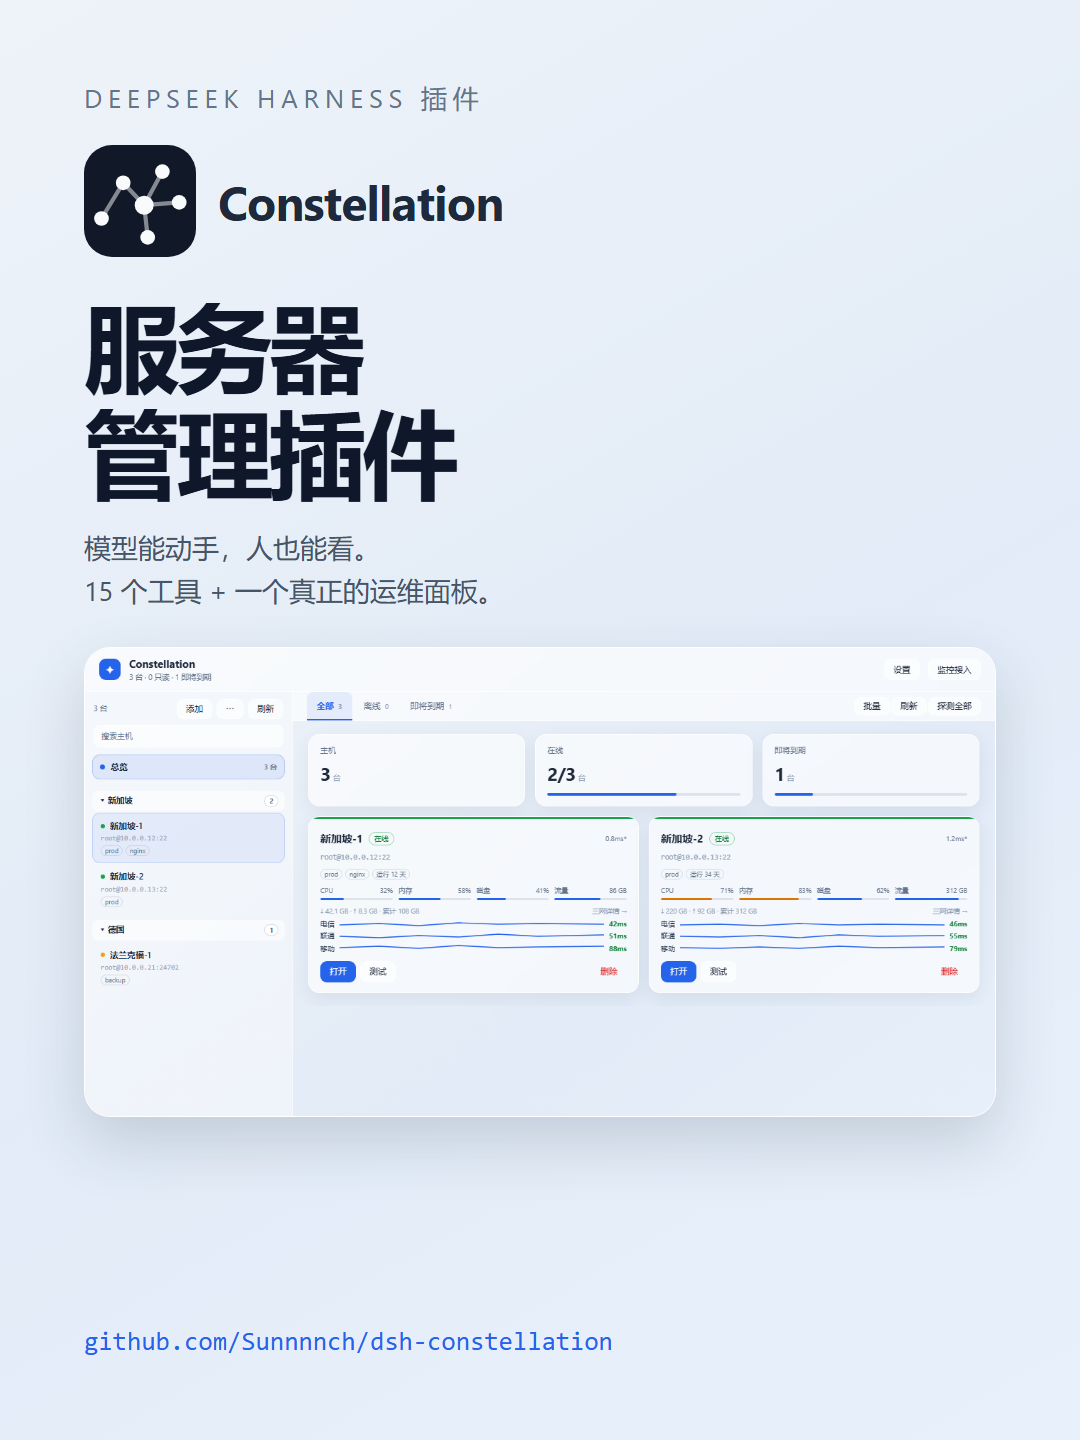
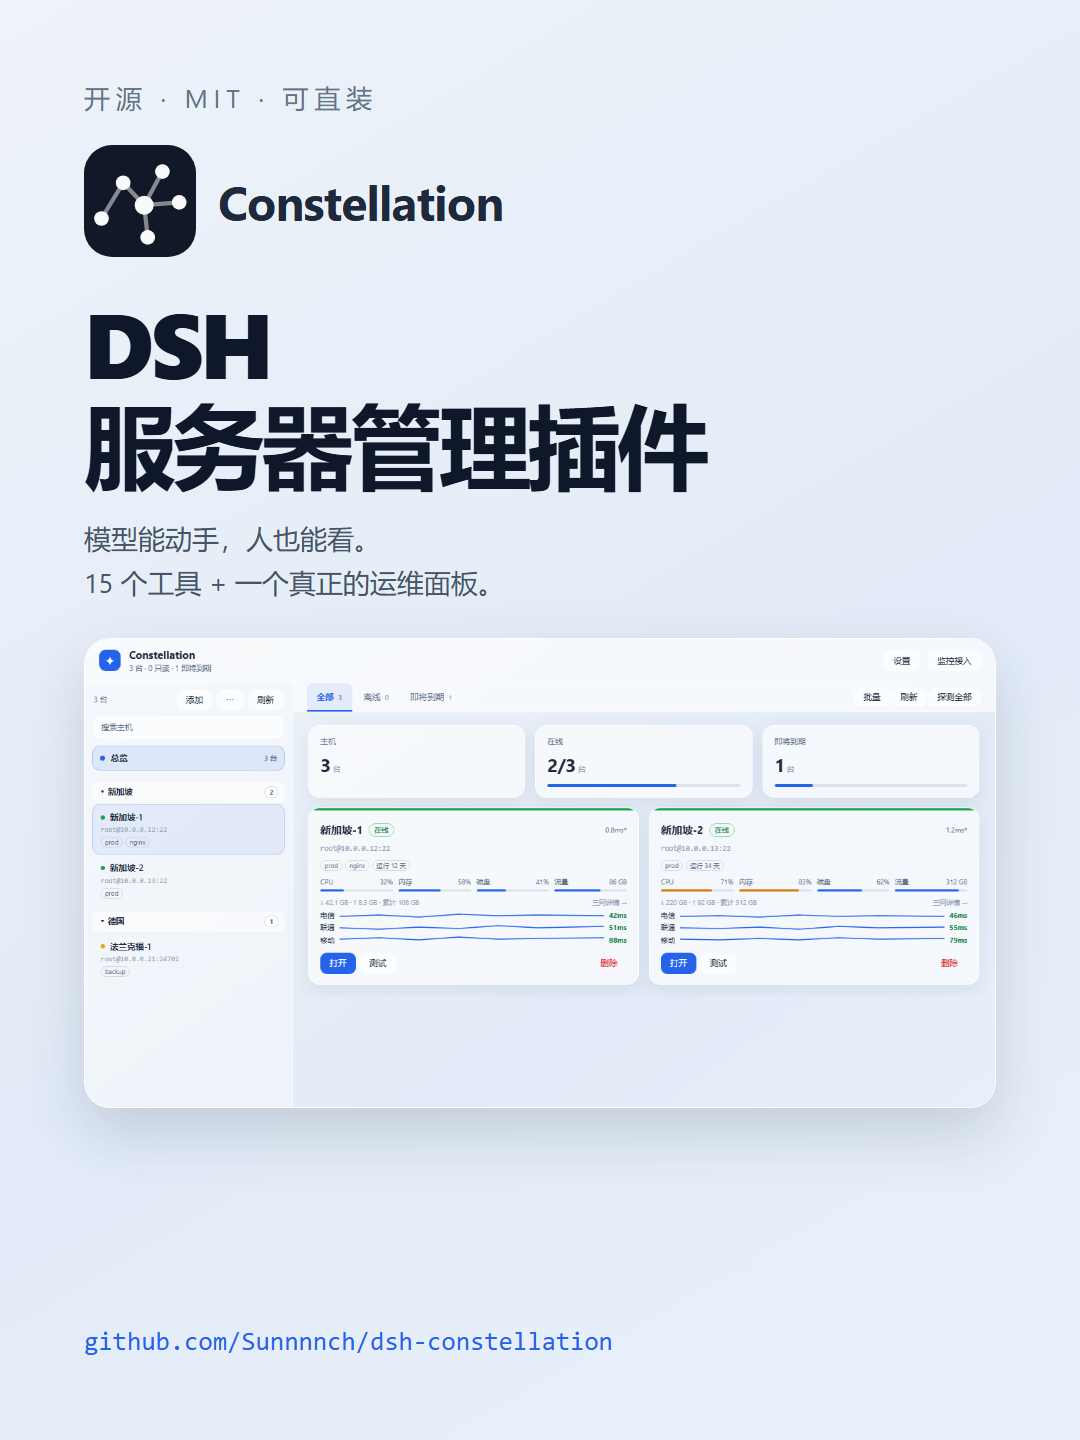
docs: cover reads DSH 服务器管理插件

diff --git a/marketing/xhs.html b/marketing/xhs.html
@@ -70,7 +70,7 @@
 <!-- 1 封面：标题 + 总览 UI -->
 <section id="s1" class="light">
   <div class="pad">
-    <div class="kicker dim">DeepSeek Harness 插件</div>
+    <div class="kicker dim">开源 · MIT · 可直装</div>
     <div class="brandline" style="margin-top:30px">
       <svg class="logo" viewBox="0 0 64 64" xmlns="http://www.w3.org/2000/svg">
         <rect width="64" height="64" rx="16" fill="#111827"/>
@@ -84,7 +84,7 @@
       </svg>
       <div class="brandname">Constellation</div>
     </div>
-    <h1 style="margin-top:34px;font-size:96px;color:#0f172a">服务器<br/>管理插件</h1>
+    <h1 style="margin-top:34px;font-size:92px;color:#0f172a">DSH<br/>服务器管理插件</h1>
     <div class="lead dark" style="margin-top:24px;font-size:27px">模型能动手，人也能看。<br/>15 个工具 + 一个真正的运维面板。</div>
     <div class="shot light crop" style="margin-top:34px">
       <img src="../design/ui-overview.png" alt="总览界面" />
